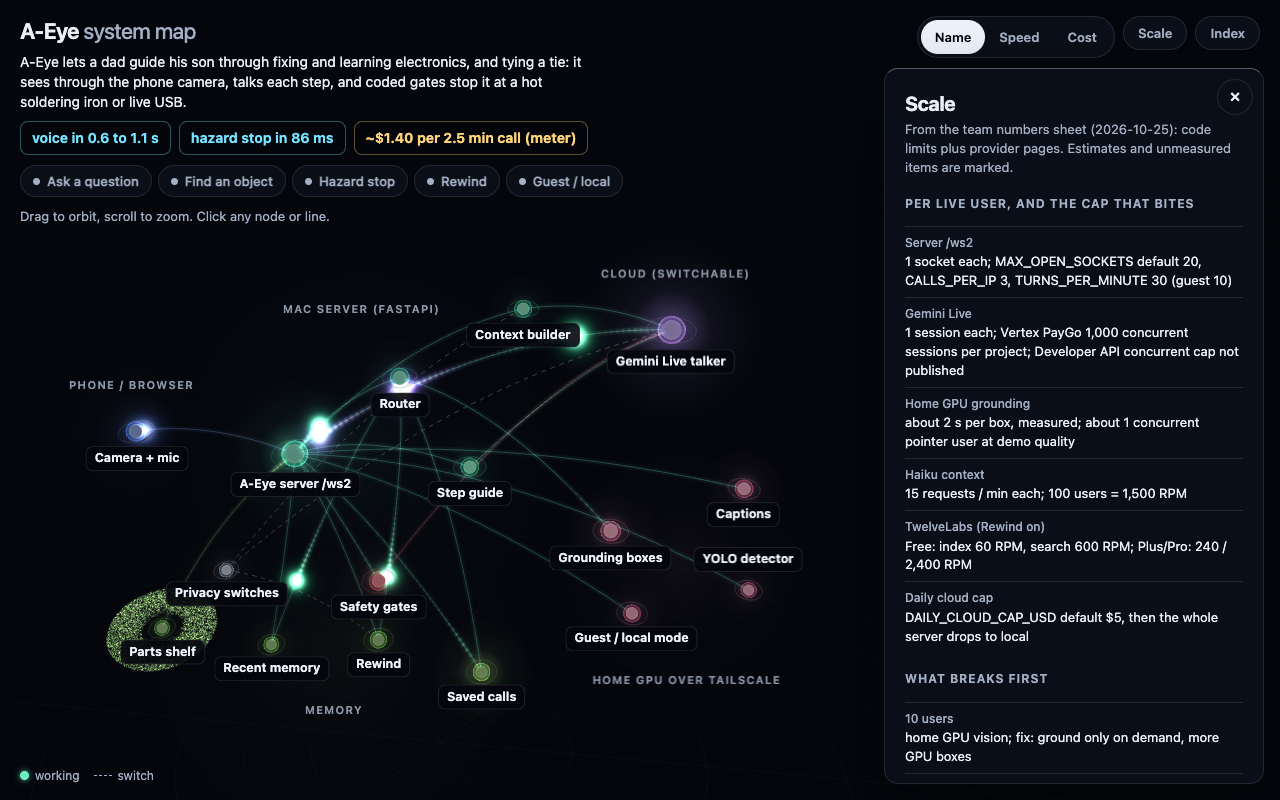
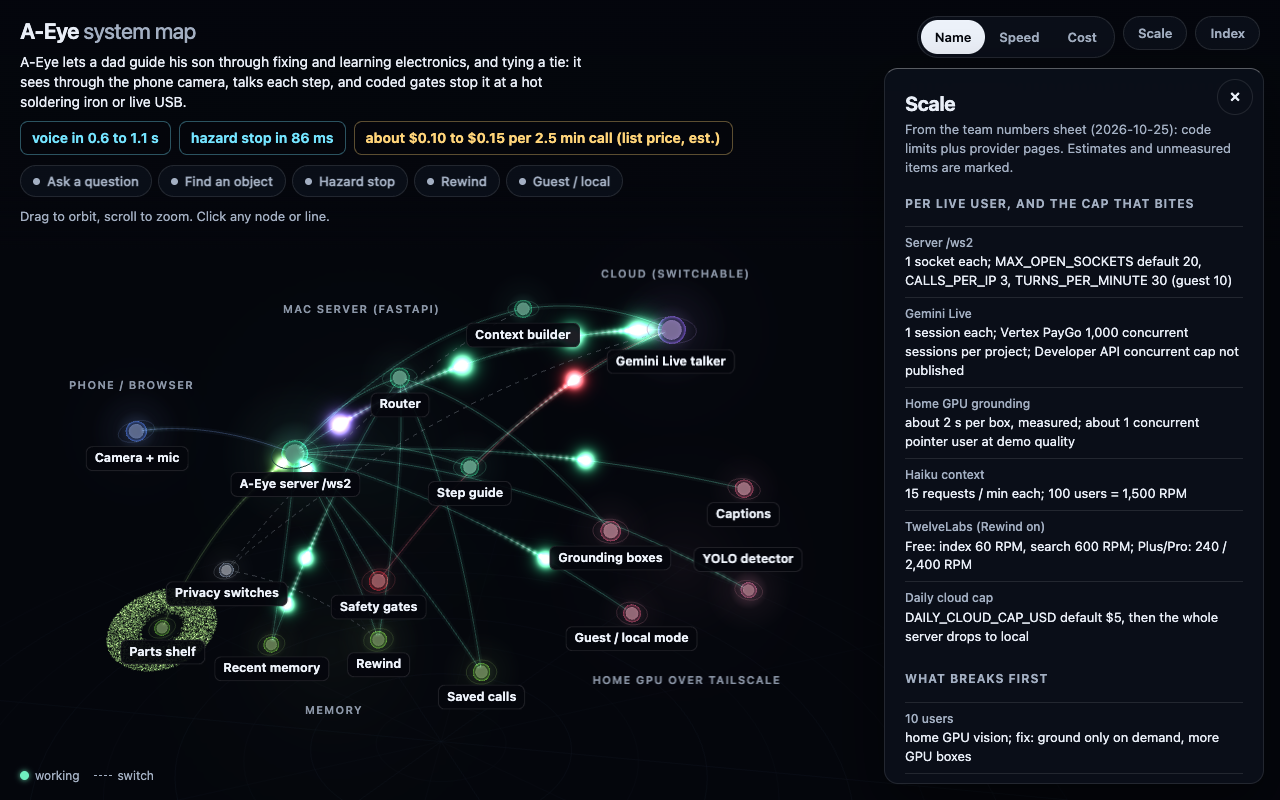
System map: headline cost at list price; meter figure only in the Cost panel
Chip reads about $0.10 to $0.15 per 2.5 min call (list price, est.) and opens a Cost
panel with the Gemini, Haiku and Rewind list breakdown; the $1.40 meter figure appears
only there, labelled our safety meter (counts high on purpose). Test enforces it.

Verified: node --test client-web/map-data.test.mjs (7 pass); headless Chromium on Metal,
recaptured 1536/1280/390 headline, cost and scale shots, no console errors.

diff --git a/client-web/map.js b/client-web/map.js
@@ -375,6 +375,10 @@ function scalePanel() {
   const sc = data.scale;
   return `<h2>${esc(sc.title)}</h2><p class="kind">${esc(sc.note)}</p>${sc.sections.map((x) => `<p class="sec">${esc(x.head)}</p><ul class="facts">${x.rows.map(([k, v]) => `<li><b>${esc(k)}</b>${esc(v)}</li>`).join('')}</ul>`).join('')}${linksHtml(sc.sources)}`;
 }
+function costPanel() {
+  const c = data.call_cost;
+  return `<h2>${esc(c.title)}</h2><p class="kind">${esc(c.note)}</p><ul class="facts">${c.rows.map(([k, v]) => `<li><b>${esc(k)}</b><span class="co">${esc(v)}</span></li>`).join('')}</ul><p class="sec">${esc(c.meter[0])}</p><p class="kind">${esc(c.meter[1])}</p>${linksHtml(c.sources)}`;
+}
 function flowPanel(f) {
   const x = f.detail || {};
   const rows = [['Path', x.path], ['Data that leaves', x.out], ['Latency', x.latency], ['Cost', x.cost], ['How long it runs', x.runs]].filter(([, v]) => v);
@@ -481,7 +485,7 @@ for (const c of data.headline.chips) {
   const b = document.createElement('button');
   b.className = 't-' + c.tone;
   b.textContent = c.text;
-  b.addEventListener('click', () => select({ kind: 'node', id: c.node }));
+  b.addEventListener('click', () => (c.panel === 'cost' ? (selected = null, applyFocus(), openPanel(costPanel())) : select({ kind: 'node', id: c.node })));
   document.getElementById('chips').appendChild(b);
 }
 function markFlows() { for (const b of flowsEl.children) b.setAttribute('aria-pressed', String(!!flow && b.dataset.flow === flow.id)); sayEl.textContent = flow ? flow.say : defaultSay;
@@ -743,6 +747,7 @@ const sel = params.get('select');
 if (sel && (nodes[sel] || edges[sel])) { REDUCED || (tween = null); select({ kind: nodes[sel] ? 'node' : 'edge', id: sel }); }
 if (params.get('panel') === 'index') openPanel(indexPanel());
 if (params.get('panel') === 'scale') openPanel(scalePanel());
+if (params.get('panel') === 'cost') openPanel(costPanel());
 // play "Ask a question" once on a plain load to lead the eye (never under reduced motion)
 if (!REDUCED && !location.search) setFlow(data.flows.find((f) => f.id === 'ask'), true);
 requestAnimationFrame(tick);

diff --git a/client-web/map.css b/client-web/map.css
@@ -124,6 +124,7 @@ button:focus-visible { outline: 2px solid var(--label-speed); outline-offset: 2p
 .sw button { grid-row: 1 / span 2; grid-column: 2; align-self: center; font: 600 12px var(--font); color: var(--label-speed); background: none; border: 1px solid var(--rim-hi); border-radius: 999px; padding: 5px 10px; cursor: pointer; min-height: 30px; }
 .src a { color: var(--label-speed); text-decoration: underline; text-underline-offset: 2px; }
 .say .more { pointer-events: auto; font: 600 12px var(--font); color: var(--label-speed); background: none; border: 1px solid var(--rim-hi); border-radius: 999px; padding: 3px 9px; margin-left: 4px; cursor: pointer; }
+.facts .co { color: var(--label-cost); font-weight: 600; }
 .pending { color: var(--build); font-weight: 600; }
 .stat { font-size: 40px; font-weight: 700; letter-spacing: -0.03em; line-height: 1; }
 .stat small { font-size: 14px; color: var(--muted); font-weight: 500; letter-spacing: 0; margin-left: 6px; }

diff --git a/docs/results/system-map/shoot.py b/docs/results/system-map/shoot.py
@@ -19,6 +19,8 @@ SHOTS = [
     ('1280-scale', 1280, 800, '?panel=scale'),
     ('1280-flow-guest', 1280, 800, '?flow=guest'),
     ('390-scale', 390, 844, '?panel=scale'),
+    ('1280-cost-panel', 1280, 800, '?panel=cost'),
+    ('390-cost-panel', 390, 844, '?panel=cost'),
     ('390-privacy-panel', 390, 844, '?select=privacy'),
     ('390-flow-guest', 390, 844, '?flow=guest'),
     ('1280-speed', 1280, 800, '?mode=speed'),

diff --git a/docs/results/system-map.md b/docs/results/system-map.md
@@ -4,6 +4,13 @@ Interactive 3D map of the A-Eye system for judges, served at `/map.html` next to
 per call, all driven by one JSON file. Branch `pkg/system-map`; the commit sha is in the git log of that branch (this
 file is part of that commit).
 
+## Cost chip round (owner, 2026-10-25)
+
+The headline chip now reads "about $0.10 to $0.15 per 2.5 min call (list price, est.)" and opens a Cost panel:
+Gemini $0.04 to $0.06, Haiku notes about $0.01, Rewind about $0.08 with Recall on; totals about $0.13 to $0.15 with
+Recall and $0.05 to $0.07 without. The $1.40 meter figure appears only in that panel, under "Our safety meter (counts
+high on purpose)"; a test enforces this. Captures: `1280-cost-panel.png`, `390-cost-panel.png`, headline shots.
+
 ## Numbers round (team numbers sheet, 2026-10-25)
 
 1. Scale panel filled from the sheet: per-user caps, what breaks first at 10 / 100 / 1,000 / 100,000 users, monthly
